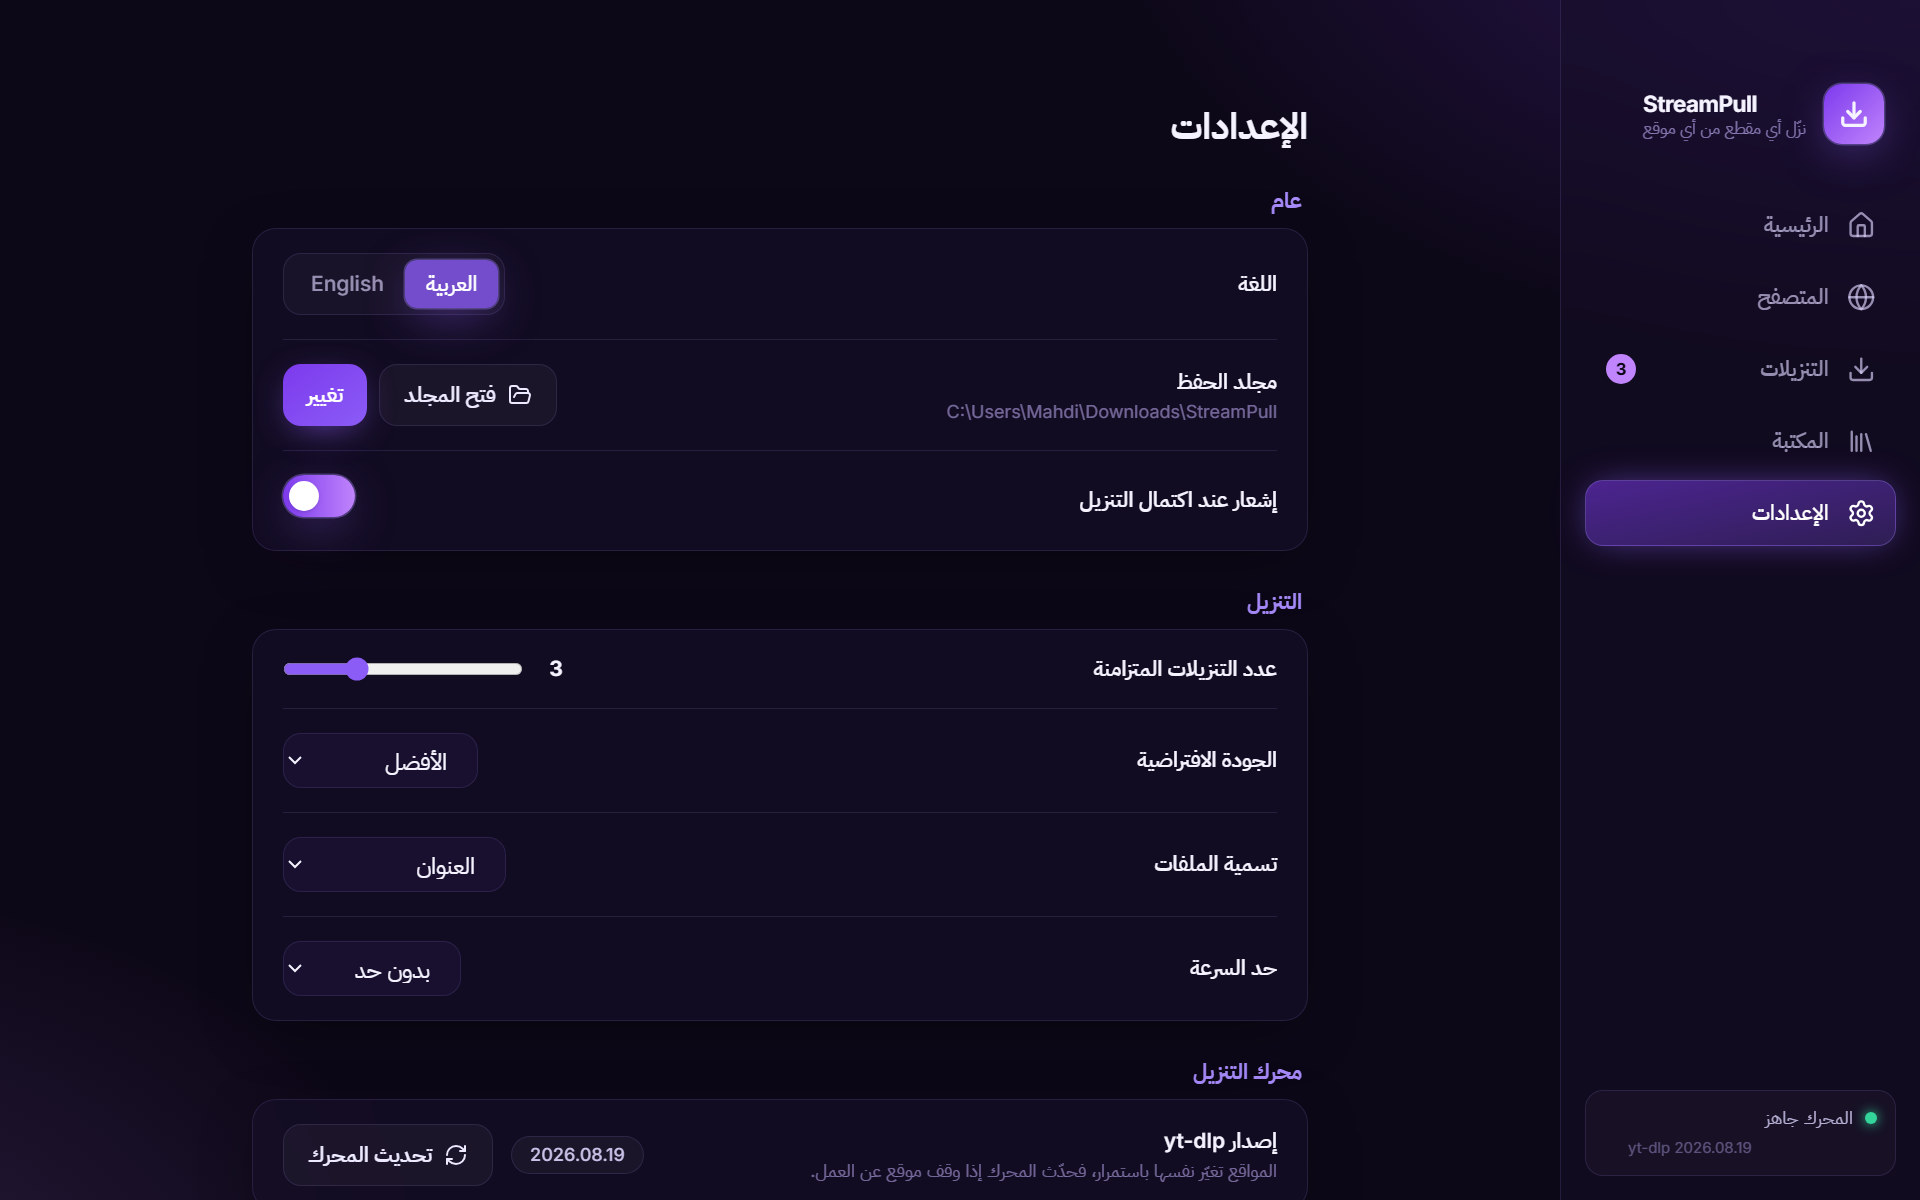
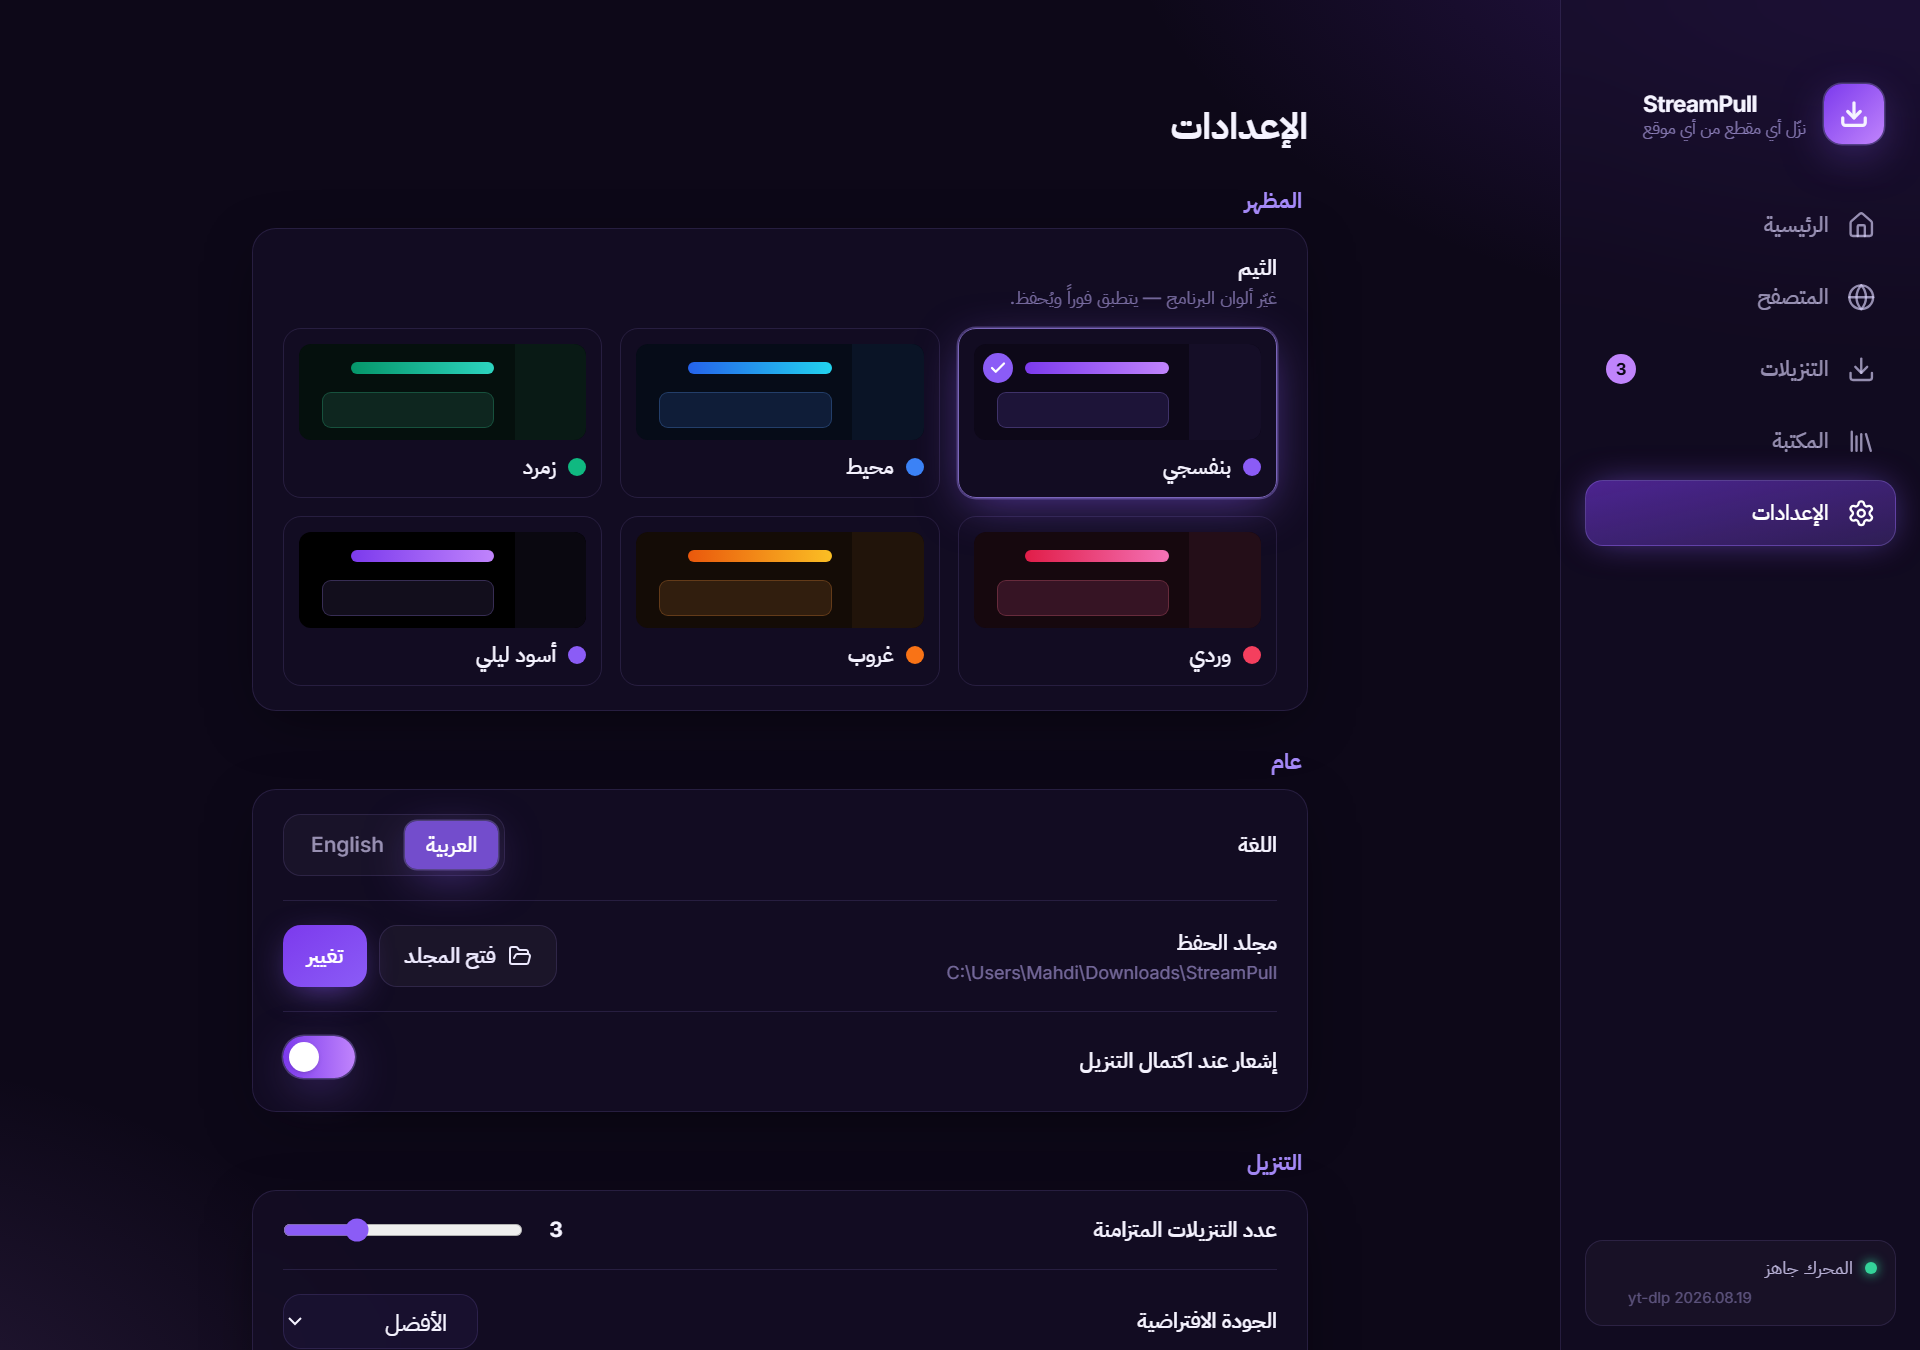
Docs and release workflow: Windows-only for now
README (EN/AR): point to the Windows installer and portable builds on
Releases, say macOS, Linux and Android are coming in the next few days,
mention themes, refresh settings screenshots. The release workflow builds
and publishes Windows only until the other platforms are ready.

diff --git a/README.ar.md b/README.ar.md
@@ -4,10 +4,10 @@
 
 # StreamPull
 
-**نزّل الفيديو والصوت من أي موقع تقريباً — بتطبيق مكتبي حديث بتصميم بنفسجي غامق.**
+**نزّل الفيديو والصوت من أي موقع تقريباً — بتطبيق مكتبي حديث مع ثيمات ألوان تقدر تبدّلها.**
 
 ![License: MIT](https://img.shields.io/badge/license-MIT-8b5cf6)
-![Platforms](https://img.shields.io/badge/platforms-Windows%20%7C%20macOS%20%7C%20Linux-7c3aed)
+![Platforms](https://img.shields.io/badge/Windows-available%20%C2%B7%20macOS%20%7C%20Linux%20%7C%20Android-coming%20soon-7c3aed)
 
 العربية · [English](README.md)
 
@@ -29,6 +29,7 @@ StreamPull بديل مكتبي لإضافات المتصفح مثل *Video Downl
 - **قوائم التشغيل والقنوات** — حدّد وابحث ونزّل عدة عناصر دفعة واحدة.
 - **طابور ذكي** — تنزيلات متوازية، إيقاف مؤقت واستئناف وإلغاء وإعادة محاولة، مع السرعة والوقت المتبقي.
 - **مكتبة** — سجل بحث وفلاتر، وفتح الملف، وإظهاره في المجلد، وإعادة التنزيل.
+- **ثيمات ألوان** — بنفسجي، محيط، زمرد، وردي، غروب، أو أسود ليلي؛ غيّره متى شئت من *الإعدادات ← المظهر*.
 - **عربي أولاً مع الإنجليزية** — واجهة RTL كاملة، وتبديل اللغة في أي وقت.
 - **محرك يتحدّث تلقائياً** — يتجدّد yt-dlp يومياً لأن المواقع تتغيّر باستمرار.
 - **خصوصية** — بدون حسابات ولا تتبّع، ولا يخرج من جهازك شيء إلا التنزيلات التي تبدأها.
@@ -37,27 +38,24 @@ StreamPull بديل مكتبي لإضافات المتصفح مثل *Video Downl
   <img src="docs/screenshots/library-ar.png" width="400" alt="المكتبة" />
   <img src="docs/screenshots/browser-ar.png" width="400" alt="المتصفح المدمج" />
 </p>
+<p align="center">
+  <img src="docs/screenshots/settings-ar.png" width="400" alt="الإعدادات واختيار الثيم" />
+</p>
 
-## التثبيت
+## التنزيل
 
-نزّل المثبّت المناسب لنظامك من صفحة [**الإصدارات**](../../releases).
+نزّل أحدث نسخة لويندوز من صفحة [**الإصدارات**](../../releases):
 
-| النظام | الملف |
+| الملف | وش هو |
 | --- | --- |
-| ويندوز | `StreamPull-Setup-x.y.z.exe` (مثبّت) أو `…-portable.exe` |
-| ماك | `StreamPull-x.y.z-mac-arm64.dmg` (Apple Silicon) / `…-x64.dmg` (Intel) |
-| لينكس | `StreamPull-x.y.z-linux-x86_64.AppImage` أو `.deb` |
+| `StreamPull-Setup-x.y.z.exe` | مثبّت (يضيف اختصاراً في قائمة ابدأ ومزيل تثبيت) |
+| `StreamPull-x.y.z-portable.exe` | نسخة محمولة — شغّلها من أي مكان بدون تثبيت |
 
-> **الحالة:** ويندوز هو النظام الأكثر اختباراً. إصدارات ماك ولينكس تُبنى عبر CI وتُعد **تجريبية**،
-> فإذا وجدت مشكلة [افتح Issue](../../issues).
+> **قريباً:** نسخ ماك ولينكس وأندرويد مخطط لها خلال الأيام القادمة.
+> اضغط Star أو Watch على المستودع عشان يوصلك إشعار لما تنزل.
 
-**الإصدارات غير موقّعة حالياً**، فقد يحذّرك نظامك أول مرة:
-
-- **ويندوز** — SmartScreen: *مزيد من المعلومات ← تشغيل على أي حال*.
-- **ماك** — كليك يمين على التطبيق ← *فتح*. وإذا قال إن التطبيق تالف، نفّذ:
-  `xattr -cr "/Applications/StreamPull.app"`
-- **لينكس** — `chmod +x StreamPull-*.AppImage`. وفي Ubuntu 23.10 وما بعده قد يحتاج الـ AppImage الخيار
-  `--no-sandbox`، أما حزمة `.deb` فلا تحتاجه.
+**الإصدارات غير موقّعة حالياً**، فقد يحذّرك SmartScreen في ويندوز أول مرة:
+*مزيد من المعلومات ← تشغيل على أي حال*.
 
 عند أول تشغيل ينزّل البرنامج **yt-dlp** و**FFmpeg** (حوالي ٥٠ ميجا، مرة واحدة) داخل مجلد بياناته.
 
@@ -72,17 +70,18 @@ npm ci
 npm run dev          # تشغيل التطبيق مع التحديث الفوري
 npm run typecheck    # فحص TypeScript
 npm test             # الاختبارات
-npm run dist:win     # أو dist:mac / dist:linux — يبني المثبّتات في ./release
+npm run dist:win     # يبني مثبّت ويندوز والنسخة المحمولة في ./release
 ```
 
-يجب بناء كل مثبّت على نظامه نفسه (وهذا ما يفعله workflow الإصدارات في GitHub Actions).
+الأمران `dist:mac` و`dist:linux` موجودان أيضاً، لكن هذي الأنظمة **لم تُصدر ولم تُختبر بعد** (قريباً).
+ويجب بناء كل مثبّت على نظامه نفسه.
 
 ## القيود
 
 - الخدمات المحمية بـ **DRM** (نتفليكس، ديزني+ …) غير مدعومة ولن تُدعم.
 - تسجيل الدخول بحساب **Google** داخل المتصفح المدمج تحجبه Google غالباً.
 - المتصفح المدمج بتبويب واحد حالياً.
-- نسخة أندرويد مخطط لها ولم تبدأ بعد.
+- نسخ ماك ولينكس وأندرويد قادمة قريباً (انظر أعلاه).
 
 ## تنبيه قانوني
 

diff --git a/README.md b/README.md
@@ -4,10 +4,10 @@
 
 # StreamPull
 
-**Download videos and audio from almost any site — in a modern, dark‑purple desktop app.**
+**Download videos and audio from almost any site — in a modern desktop app with switchable color themes.**
 
 ![License: MIT](https://img.shields.io/badge/license-MIT-8b5cf6)
-![Platforms](https://img.shields.io/badge/platforms-Windows%20%7C%20macOS%20%7C%20Linux-7c3aed)
+![Platforms](https://img.shields.io/badge/Windows-available%20%C2%B7%20macOS%20%7C%20Linux%20%7C%20Android-coming%20soon-7c3aed)
 ![Built with](https://img.shields.io/badge/built%20with-Electron%20%2B%20yt--dlp%20%2B%20FFmpeg-c084fc)
 
 [العربية](README.ar.md) · English
@@ -28,6 +28,7 @@ StreamPull is a desktop alternative to browser extensions like *Video DownloadHe
 - **Playlists & channels** — select, search and download many items at once.
 - **Smart queue** — parallel downloads, pause / resume / cancel / retry, live speed and ETA.
 - **Library** — history with search, filters, *open file*, *show in folder*, *download again*.
+- **Color themes** — Violet, Ocean, Emerald, Rose, Sunset or Midnight black; change it any time in *Settings → Appearance*.
 - **Arabic first, English too** — full RTL layout, switchable at any time.
 - **Auto‑updating engine** — yt-dlp refreshes itself daily, because sites change constantly.
 - **Private by design** — no accounts, no telemetry, nothing leaves your machine except the downloads you start.
@@ -36,27 +37,24 @@ StreamPull is a desktop alternative to browser extensions like *Video DownloadHe
   <img src="docs/screenshots/library-en.png" width="400" alt="Library" />
   <img src="docs/screenshots/browser-ar.png" width="400" alt="Built-in browser (Arabic UI)" />
 </p>
+<p align="center">
+  <img src="docs/screenshots/settings-en.png" width="400" alt="Settings with theme picker" />
+</p>
 
-## Install
+## Download
 
-Download the installer for your system from the [**Releases**](../../releases) page.
+Get the latest Windows build from the [**Releases**](../../releases) page:
 
-| System | File |
+| File | What it is |
 | --- | --- |
-| Windows | `StreamPull-Setup-x.y.z.exe` (installer) or `…-portable.exe` |
-| macOS | `StreamPull-x.y.z-mac-arm64.dmg` (Apple Silicon) / `…-x64.dmg` (Intel) |
-| Linux | `StreamPull-x.y.z-linux-x86_64.AppImage` or `.deb` |
+| `StreamPull-Setup-x.y.z.exe` | Installer (adds a Start menu entry, uninstaller) |
+| `StreamPull-x.y.z-portable.exe` | Portable — run it from anywhere, nothing to install |
 
-> **Status:** Windows is the most tested platform. The macOS and Linux builds are produced by CI and
-> should be considered **experimental** — please [open an issue](../../issues) if something is off.
+> **Coming soon:** macOS, Linux and Android versions are planned for the next few days.
+> Star or watch the repository to get notified when they land.
 
-**The builds are not code‑signed yet**, so your OS may warn you the first time:
-
-- **Windows** — SmartScreen: *More info → Run anyway*.
-- **macOS** — right‑click the app → *Open*. If macOS says the app is damaged, run
-  `xattr -cr "/Applications/StreamPull.app"`.
-- **Linux** — `chmod +x StreamPull-*.AppImage`. On Ubuntu 23.10+ you may need `--no-sandbox` for the AppImage;
-  the `.deb` package does not.
+**The builds are not code‑signed yet**, so Windows SmartScreen may warn you the first time:
+*More info → Run anyway*.
 
 On first launch the app downloads **yt-dlp** and **FFmpeg** (about 50 MB, one time) into its own data folder.
 
@@ -71,10 +69,11 @@ npm ci
 npm run dev          # run the app with hot reload
 npm run typecheck    # TypeScript
 npm test             # unit tests
-npm run dist:win     # or dist:mac / dist:linux — builds installers into ./release
+npm run dist:win     # builds the Windows installer + portable exe into ./release
 ```
 
-Installers must be built on their own OS (that is what the GitHub Actions release workflow does).
+`dist:mac` and `dist:linux` also exist, but those platforms are **not released or tested yet** (coming soon).
+Installers must be built on their own OS.
 
 ## How it works
 
@@ -94,7 +93,7 @@ renderer (React)  ──IPC──▶  main process (Electron)  ──spawn──
 - **DRM‑protected** services (Netflix, Disney+, …) are not supported and never will be.
 - Signing in with a **Google account** inside the built‑in browser is often blocked by Google.
 - The built‑in browser has a single tab for now.
-- An Android version is planned but not started.
+- macOS, Linux and Android versions are coming soon (see above).
 
 ## Legal
 
